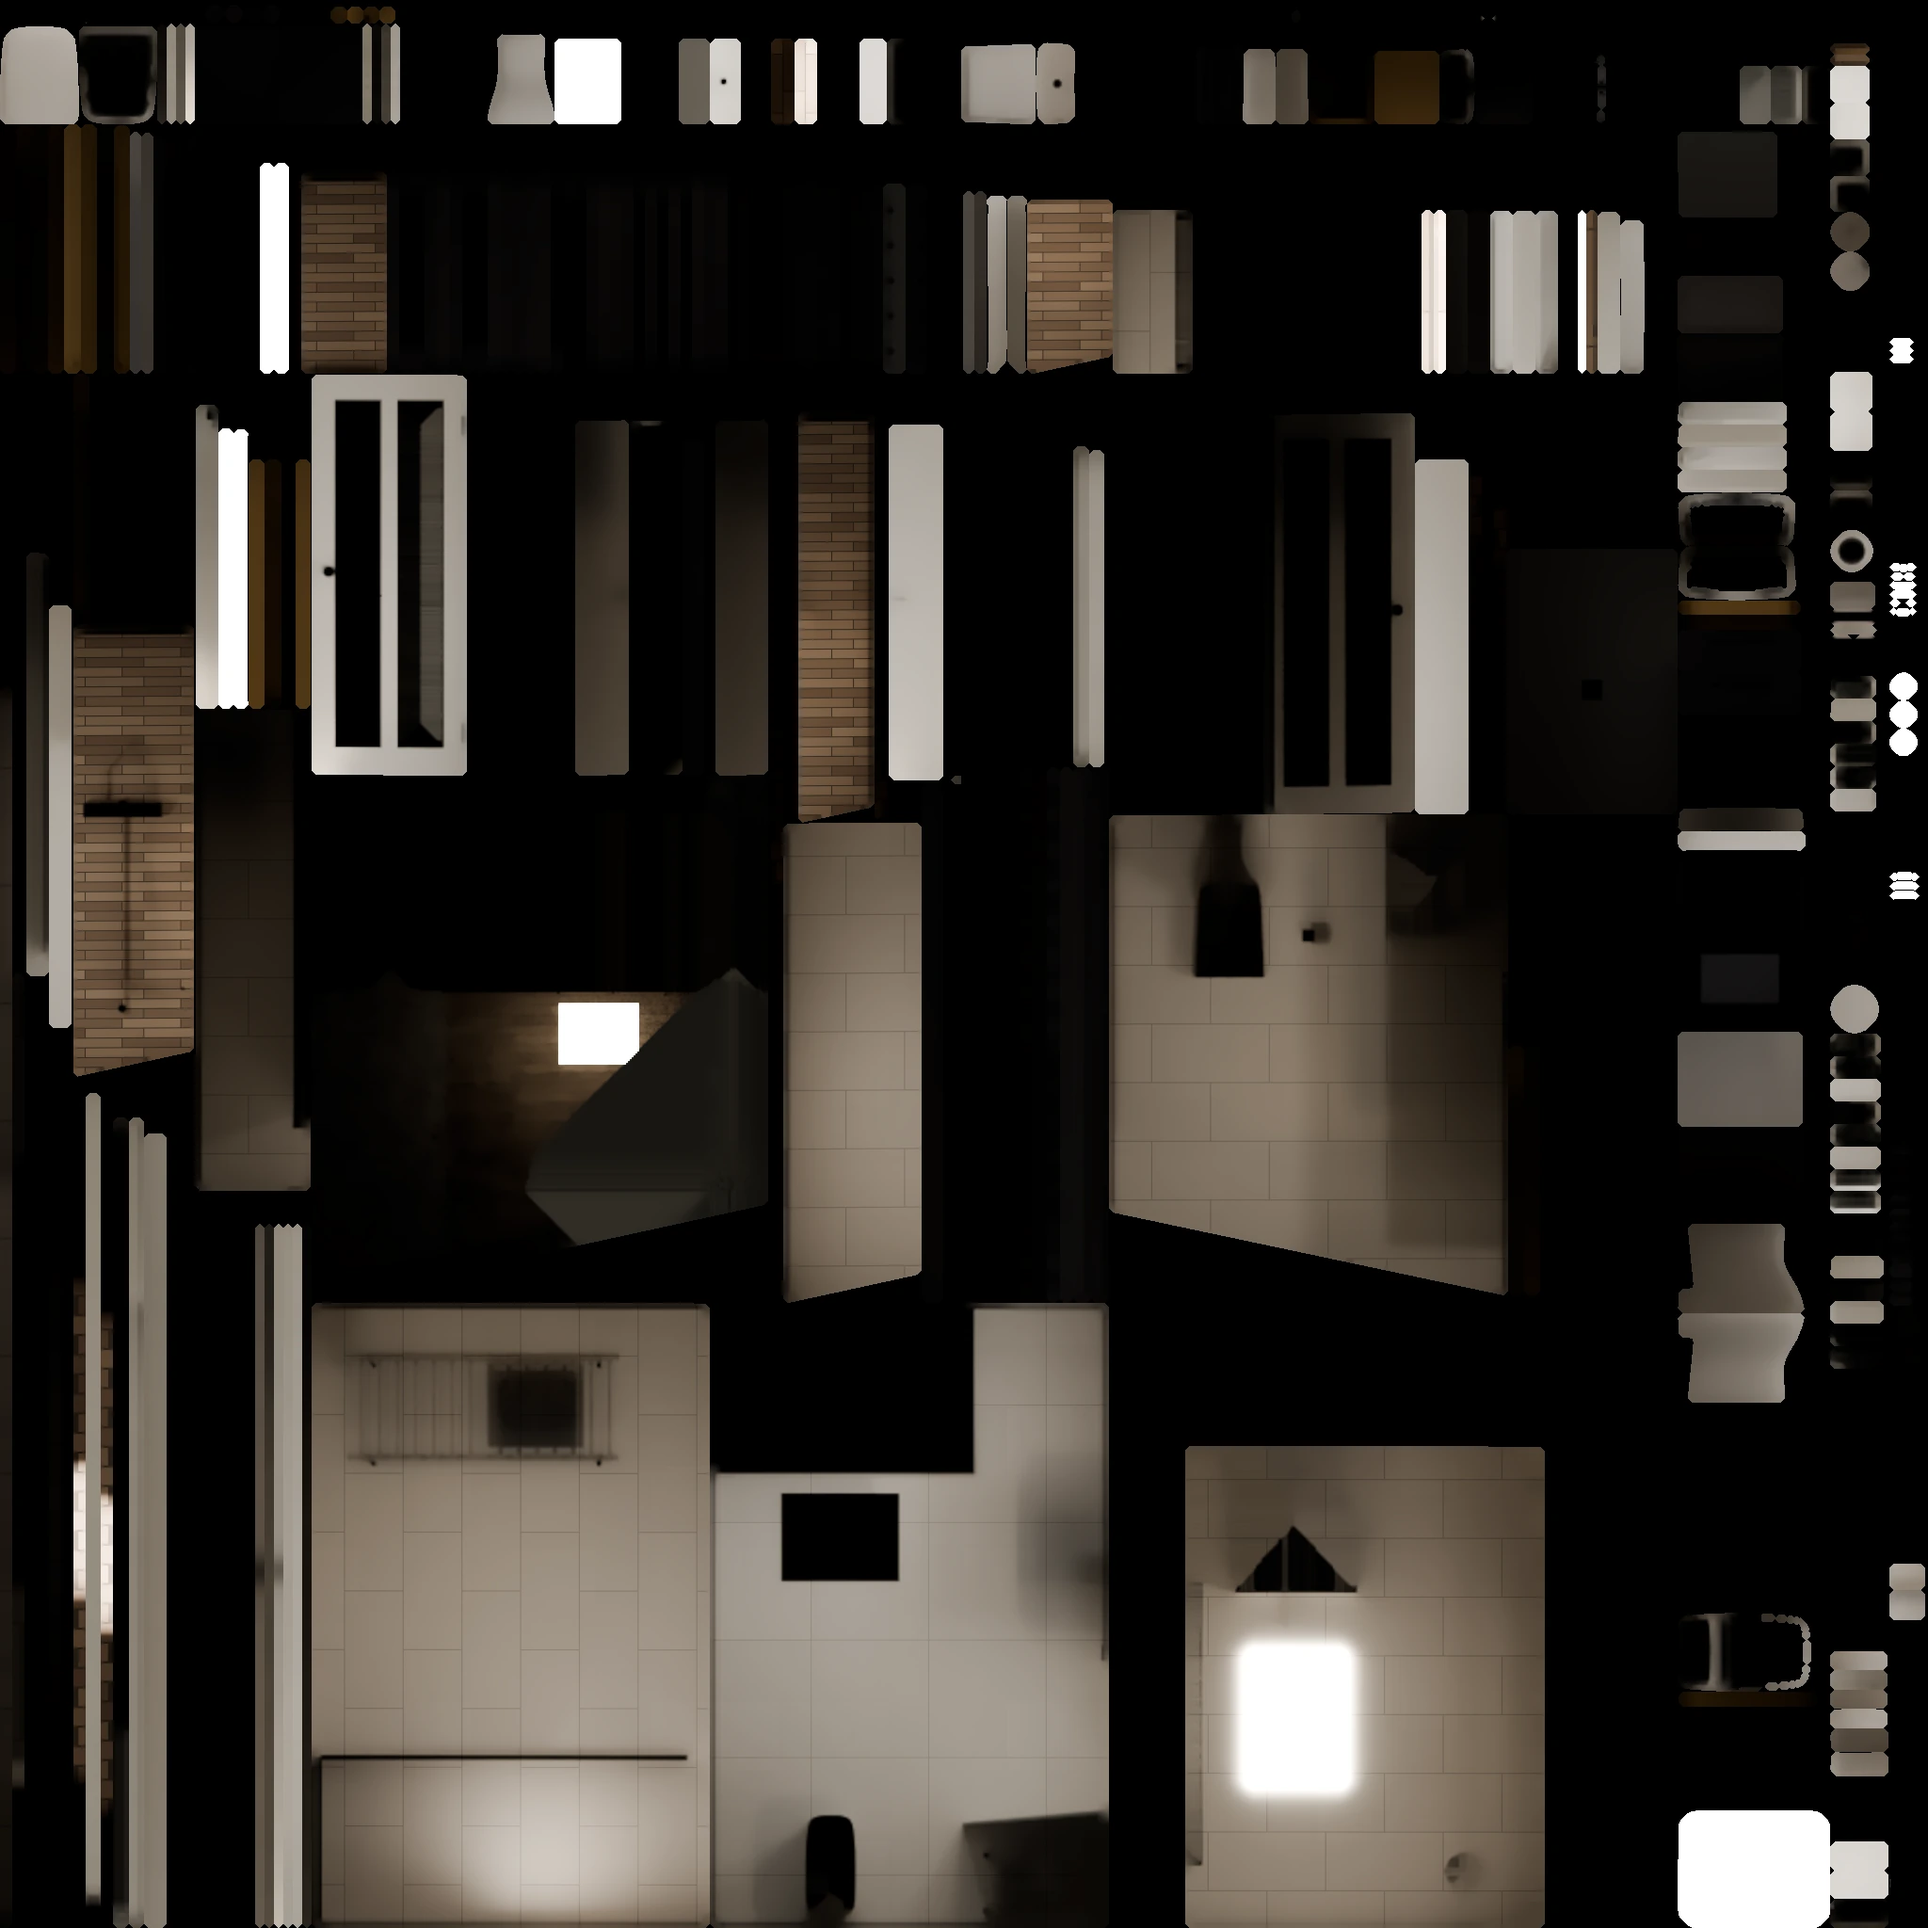
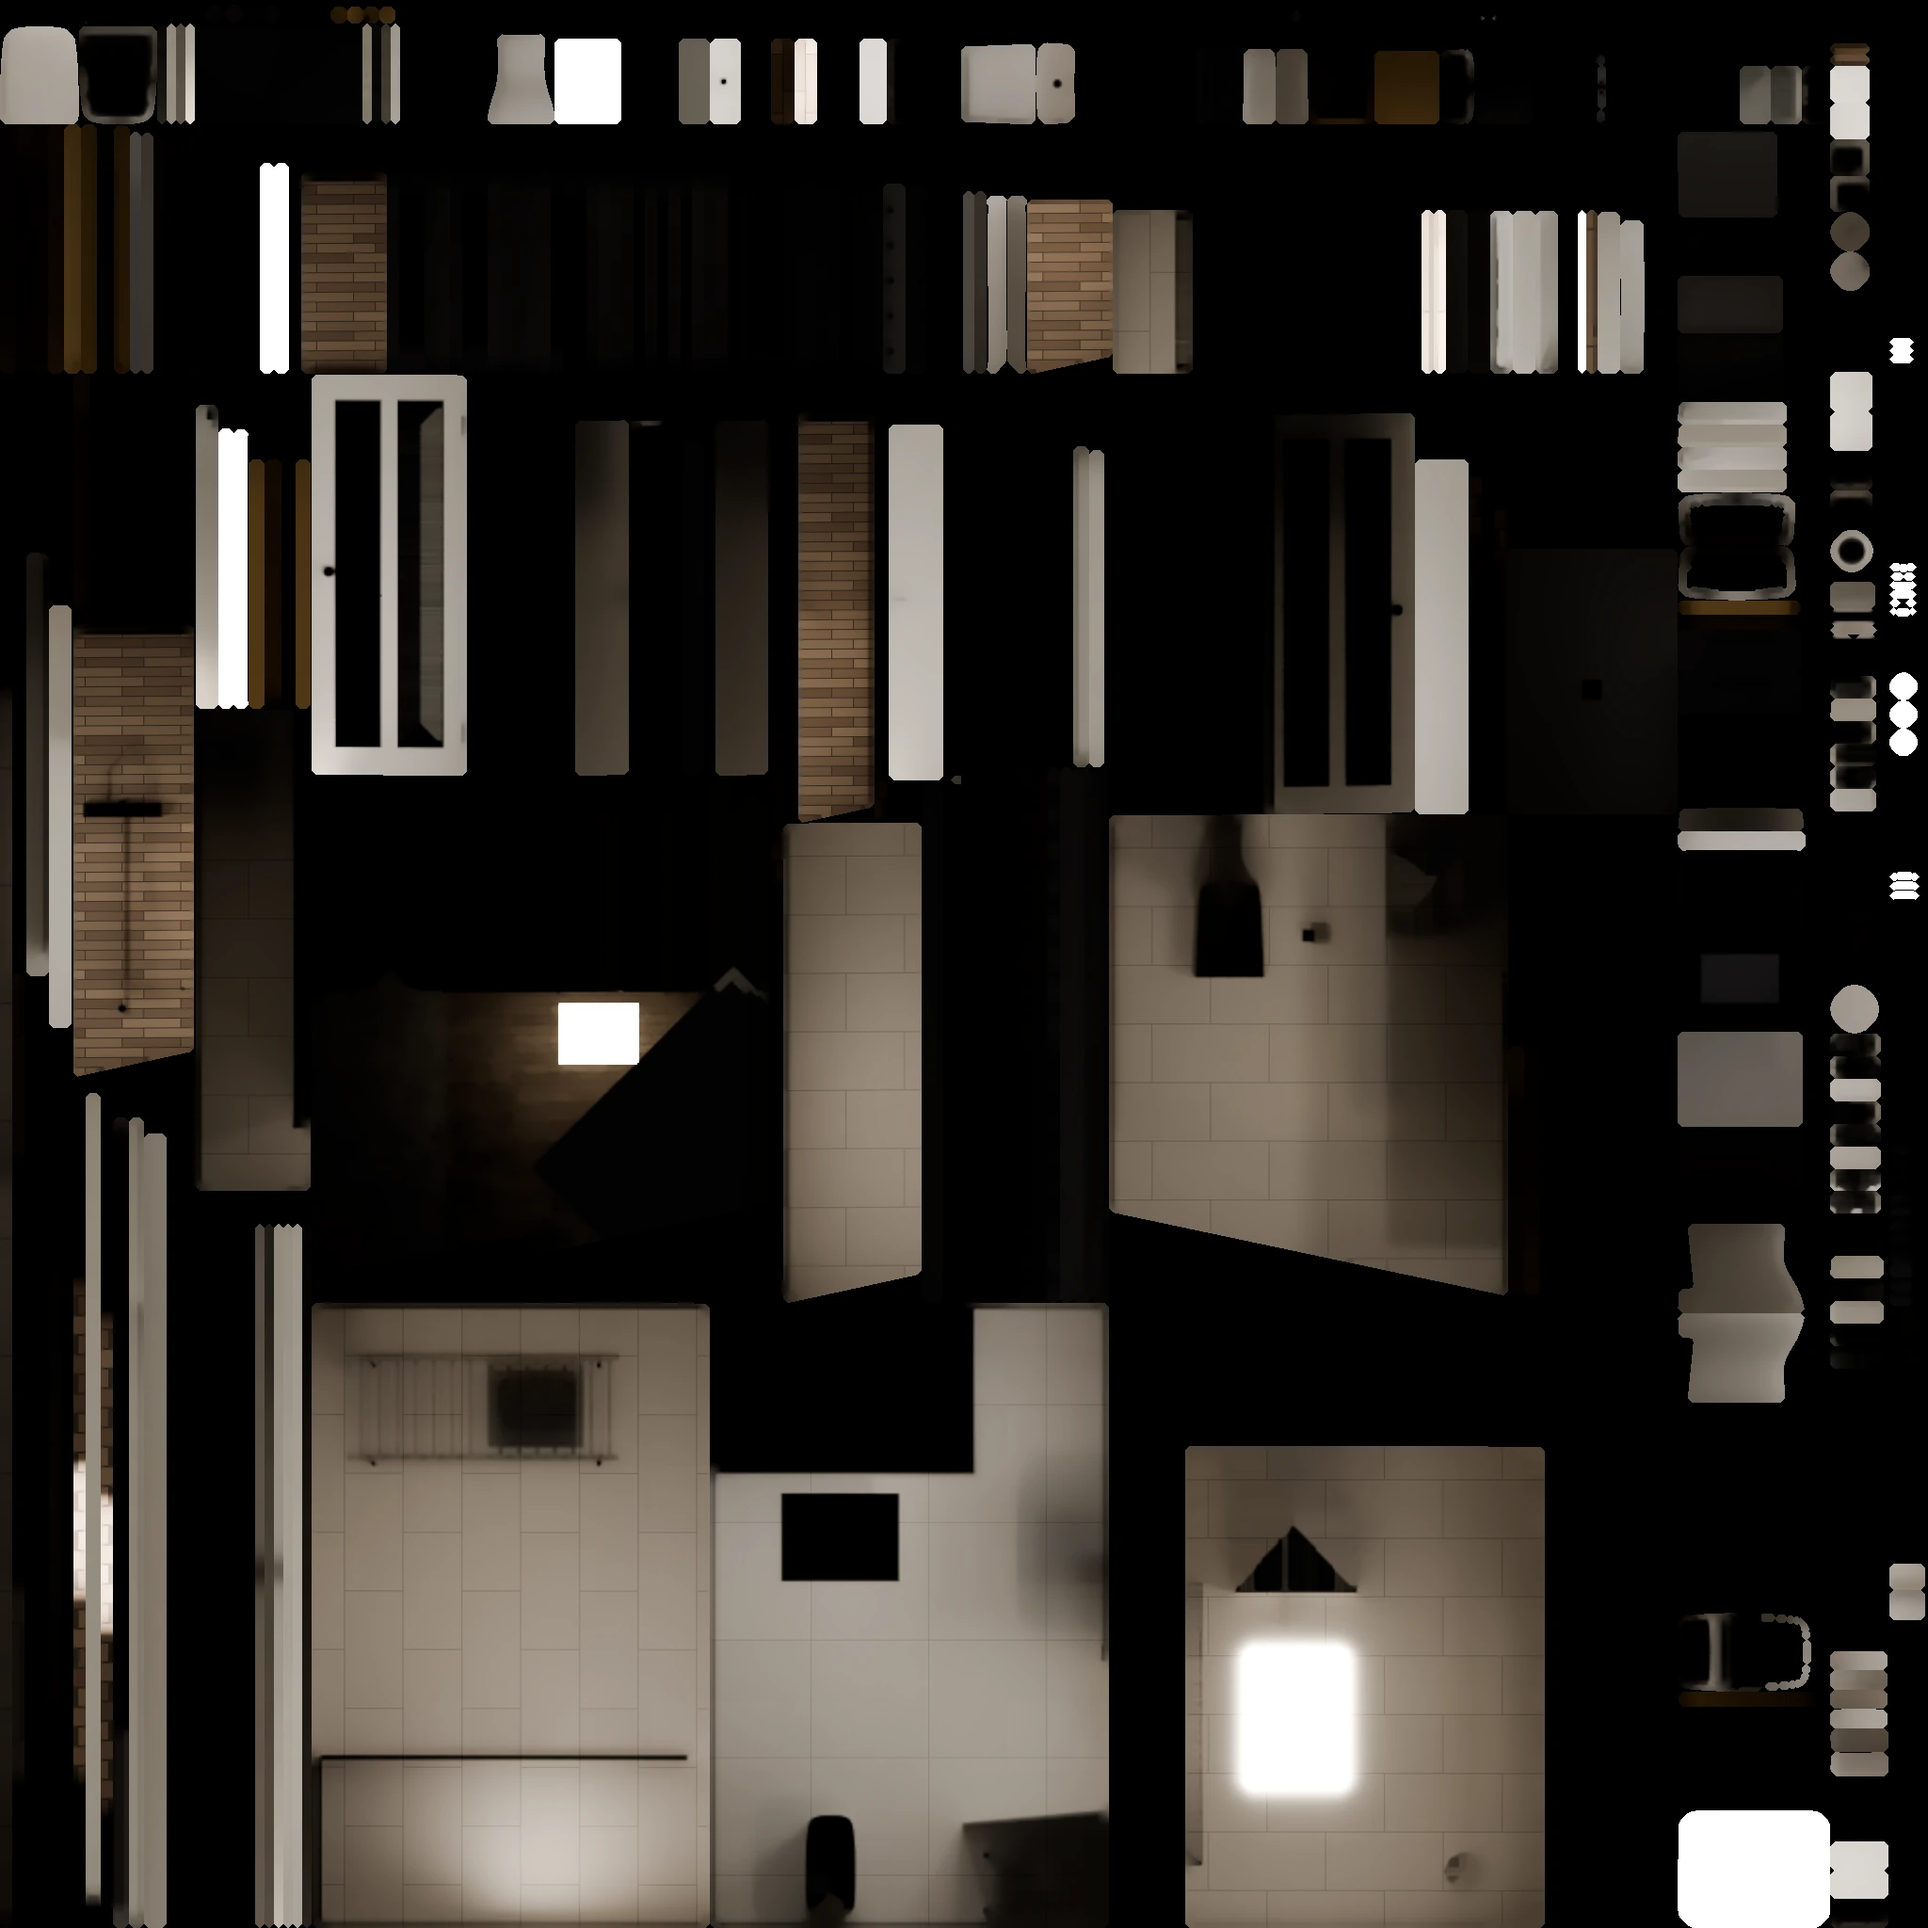
Fix white streaks along wall tops and door tops
Light slipping through joints where walls and doors meet the sloped ceiling
is now refilled instead of smoothed into a white band.

Changed region(s): [[0.2812, 0.5, 0.4062, 0.6562], [0.75, 0.125, 0.7812, 0.1875], [0.3125, 0.5312, 0.3438, 0.5625]]

diff --git a/index.html b/index.html
@@ -224,7 +224,7 @@ const COARSE = matchMedia('(pointer: coarse)').matches;
 if (COARSE) document.documentElement.classList.add('touch');
 const MOBILE = COARSE || Math.min(screen.width, screen.height) < 700;
 const Q = MOBILE ? 'lo' : 'hi';
-const VER = '?v=6.2';           // bump on every republish so browsers never mix old and new assets
+const VER = '?v=6.3';           // bump on every republish so browsers never mix old and new assets
 const $ = (s) => document.querySelector(s);
 const statusEl = $('#status'), barEl = $('#bar i');
 

diff --git a/sample/index.html b/sample/index.html
@@ -224,7 +224,7 @@ const COARSE = matchMedia('(pointer: coarse)').matches;
 if (COARSE) document.documentElement.classList.add('touch');
 const MOBILE = COARSE || Math.min(screen.width, screen.height) < 700;
 const Q = MOBILE ? 'lo' : 'hi';
-const VER = '?v=6.2';           // bump on every republish so browsers never mix old and new assets
+const VER = '?v=6.3';           // bump on every republish so browsers never mix old and new assets
 const $ = (s) => document.querySelector(s);
 const statusEl = $('#status'), barEl = $('#bar i');
 
